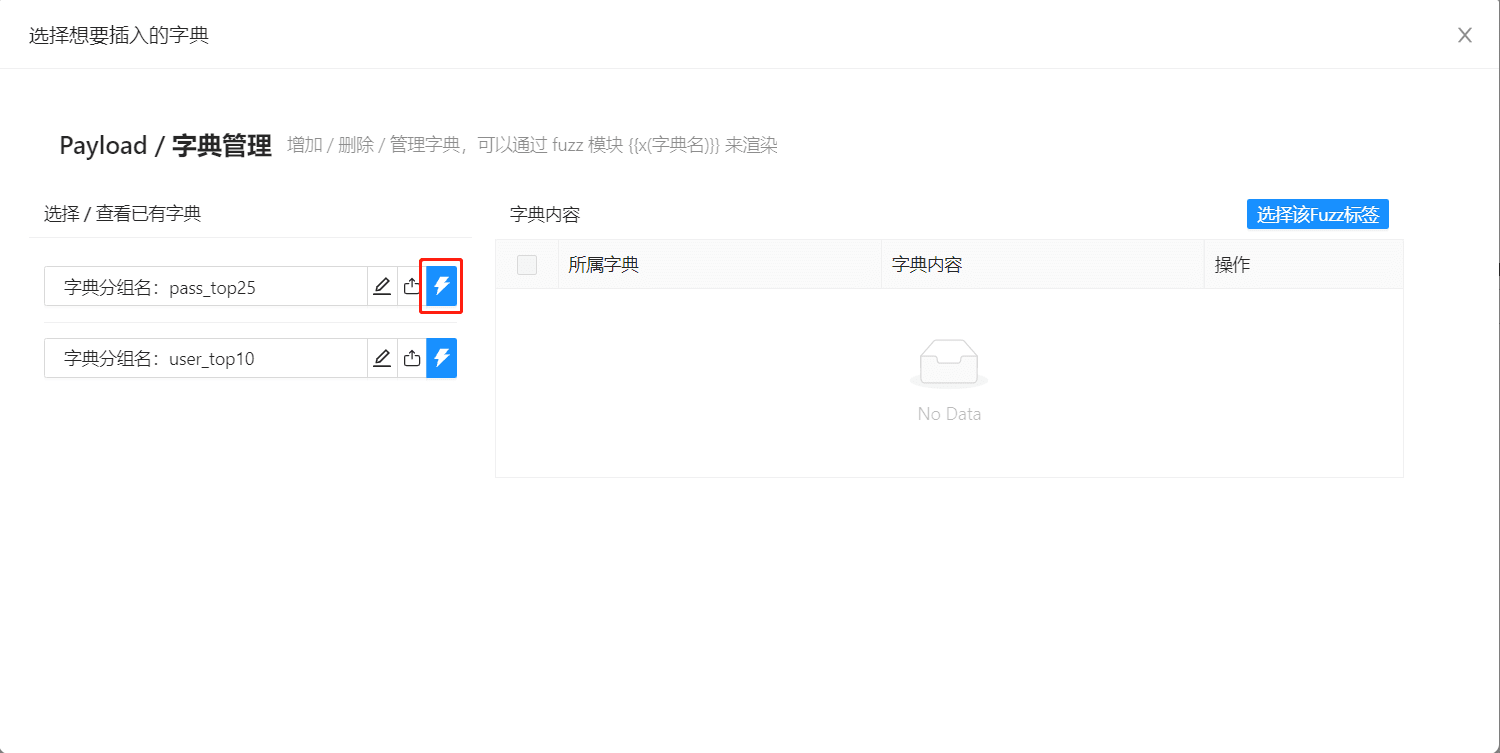
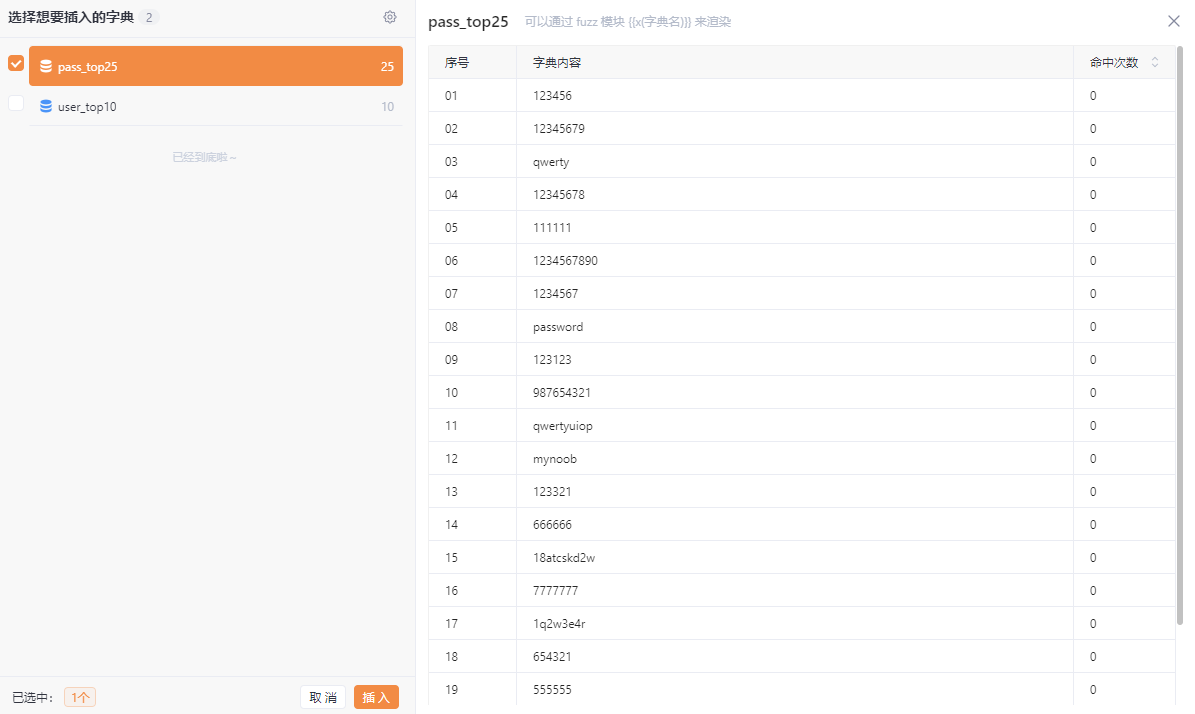
feat(fuzzer-fuzz): update new image and some text

diff --git a/products/Web Fuzzer/fuzz.md b/products/Web Fuzzer/fuzz.md
@@ -46,7 +46,7 @@ fuzztag还有许多变体，例如它可以嵌套调用：`{{base64(randint(100)
 #### 插入模糊测试字典标签
 ![](/img/products/yakit/Fuzz-fuzz/4.png)
 
-这个功能实际上是与yakit中的另外一个模块：payload的联动。当你再payload中导入了字典后，你可以使用这个功能点击闪电按钮将字典中的内容按行插入为fuzztag。
+这个功能实际上是与yakit中的另外一个模块：payload的联动。当你再payload中导入了字典后，你可以使用这个功能预览字典中的内容，或将字典中的内容按行插入为fuzztag。
 
 #### 插入热加载标签
 由于热加载的使用门槛较高，所以我们会在后续的教程中再提及相关的内容。
@@ -58,8 +58,9 @@ fuzztag还有许多变体，例如它可以嵌套调用：`{{base64(randint(100)
 
 ### * 插入标签
 ![](/img/products/yakit/Fuzz-fuzz/6.png)
+![](/img/products/yakit/Fuzz-fuzz/6-2.png)
 
-这是yakit最近新增的功能，当你在Web Fuzzer中鼠标点选了某个位置时，会弹出一个插入标签的悬浮框，在这个悬浮框中你可以选择插入一些常见的fuzztag。
+当你在Web Fuzzer中鼠标点选了某个位置时，会弹出一个插入标签的悬浮框，在这个悬浮框中你可以选择插入一些常见的fuzztag，同时你也可以添加与保存自己常用的fuzztag。
 
 ## 爆破模式
 我们知道，Burp Suite中存在四种爆破模式：Sniper，Battering ram，Pitchfork，Cluster bomb。但实际上我们真的需要爆破模式吗？它是不可替代的吗？
